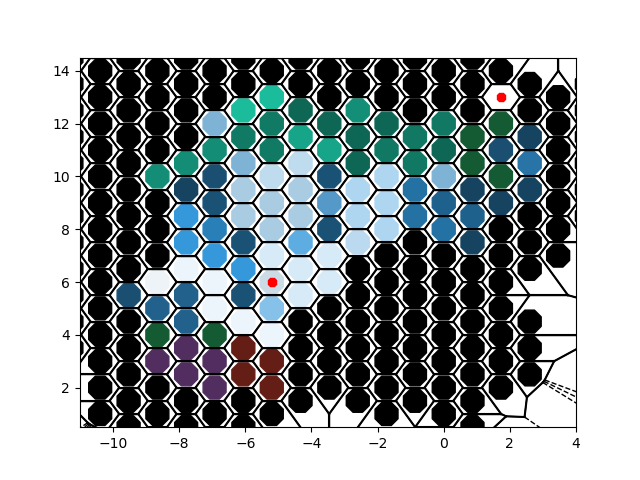
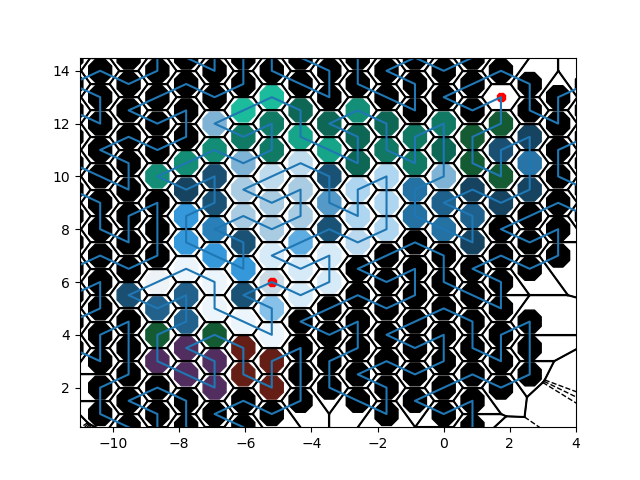
DONE 动态图，构建实验环境，不适用FCN方式录入 DONE 规则 DONE 边界 DONE 轨迹存入csv中 DONE 移动步骤 TODO FCN CNN 识别录入数据

diff --git a/envir/GridMapEnv.py b/envir/GridMapEnv.py
@@ -12,6 +12,20 @@ import copy
 import math
 
 
+# 点class
+class Points:
+    def __init__(self, x=0.0, y=0.0, style='8', color='#ffffff', ele="@", LOD="0"):
+        self.x = x
+        self.y = y
+        self.s = style
+        self.c = color
+        self.element = ele
+        self.LOD = LOD
+
+    def __repr__(self):
+        return f'Point({self.x!r}, {self.y!r}, {self.s!r}, {self.c!r}, {self.element!r},{self.LOD!r})'
+
+
 class MathTools:
     def __init__(self):
         r = 30 / 180.0 * math.pi
@@ -35,6 +49,7 @@ class GridMapEnv:
         self.figure = plt.figure()
         self.trace = []
         self.mathTools = MathTools()
+        # 轨迹
         self.trace_x = []
         self.trace_y = []
         # 图片保存
@@ -45,6 +60,7 @@ class GridMapEnv:
         # 惩罚
         self.punish = punish
         self.data = {}
+        #
 
     # read data from csv
     def readData(self):
@@ -90,7 +106,7 @@ class GridMapEnv:
     # draw line and points
     def drawGridMap(self, x, y, color):
         plt.scatter(x, y, color=color, s=320, marker='8')
-        # plt.plot(x, y)
+        plt.plot(x, y)
         # plt.axis([-18, 8, -2, 22])
         plt.axis([-11, 4, 0.5, 14.5])
         # plt.xlim([-9,0]), plt.ylim([3,12])
@@ -164,61 +180,79 @@ class GridMapEnv:
             return act(point, step)
 
     def toUP(self, point, step):
+        point = self.getPointInfo(point)
         tp = TracePart({}, {})
         tp.start_point = copy.copy(point)
         point.y += round(1 * step, 2)
+        point = self.getPointInfo(point)
         tp.end_point = copy.copy(point)
         self.trace.append(tp)
         self.acrossSide(point)
+        self.againstRules(tp)
         return point
 
     def toDOWN(self, point, step):
+        point = self.getPointInfo(point)
         tp = TracePart({}, {})
         tp.start_point = copy.copy(point)
         point.y -= round(1 * step, 2)
+        point = self.getPointInfo(point)
         tp.end_point = copy.copy(point)
         self.trace.append(tp)
         self.acrossSide(point)
+        self.againstRules(tp)
         return point
 
     def toLEFTUP(self, point, step):
+        point = self.getPointInfo(point)
         tp = TracePart({}, {})
         tp.start_point = copy.copy(point)
         point.y += round(self.mathTools.sin * step, 2)
         point.x -= round(self.mathTools.cos * step, 2)
+        point = self.getPointInfo(point)
         tp.end_point = copy.copy(point)
         self.trace.append(tp)
         self.acrossSide(point)
+        self.againstRules(tp)
         return point
 
     def toRIGHTDOWN(self, point, step):
+        point = self.getPointInfo(point)
         tp = TracePart({}, {})
         tp.start_point = copy.copy(point)
         point.y -= round(self.mathTools.sin * step, 2)
         point.x += round(self.mathTools.cos * step, 2)
+        point = self.getPointInfo(point)
         tp.end_point = copy.copy(point)
         self.trace.append(tp)
         self.acrossSide(point)
+        self.againstRules(tp)
         return point
 
     def toLEFTDOWN(self, point, step):
+        point = self.getPointInfo(point)
         tp = TracePart({}, {})
         tp.start_point = copy.copy(point)
         point.y -= round(self.mathTools.sin * step, 2)
         point.x -= round(self.mathTools.cos * step, 2)
+        point = self.getPointInfo(point)
         tp.end_point = copy.copy(point)
         self.trace.append(tp)
         self.acrossSide(point)
+        self.againstRules(tp)
         return point
 
     def toRIGHTUP(self, point, step):
+        point = self.getPointInfo(point)
         tp = TracePart({}, {})
         tp.start_point = copy.copy(point)
         point.y += round(self.mathTools.sin * step, 2)
         point.x += round(self.mathTools.cos * step, 2)
+        point = self.getPointInfo(point)
         tp.end_point = copy.copy(point)
         self.trace.append(tp)
         self.acrossSide(point)
+        self.againstRules(tp)
         return point
 
     # DONE save trace
@@ -236,7 +270,7 @@ class GridMapEnv:
                 writer.writerows([[round(i.start_point.x, 2), round(i.start_point.y, 2), round(i.end_point.x, 2),
                                    round(i.end_point.y, 2)]])
 
-    # TODO show trace
+    # DONE show trace
     def showTrace(self):
         # clear data
         self.trace_x = []
@@ -264,33 +298,84 @@ class GridMapEnv:
         # plt.clf()
         # plt.show()
 
-    # TODO 试图越过边界
+    # DONE 试图越过边界 TODO 优化函数
     def acrossSide(self, point):
-        useful_data_0 = self.data[
-            (self.data['x'] == point.x) & (self.data['y'] == point.y) & (self.data['LOD'] != '-1')].empty
-        useful_data_1 = self.data[((self.data['x'] - 0.01) == (round((point.x), 2))) & (self.data['y'] == point.y) & (
-                self.data['LOD'] != '-1')].empty
-        useful_data_2 = self.data[((self.data['x'] + 0.01) == (round((point.x), 2))) & (self.data['y'] == point.y) & (
-                self.data['LOD'] != '-1')].empty
-
-        if (point.x >= self.border_x[0] and point.x < self.border_x[1] and point.y >= self.border_y[0] and point.y <
+        now_point = self.getPointInfo(point)
+        if (now_point.x >= self.border_x[0] and now_point.x < self.border_x[1] and now_point.y >= self.border_y[
+            0] and now_point.y <
                 self.border_y[1]):
-            if useful_data_0 and useful_data_1 and useful_data_2:
+            if now_point.LOD == '-1':
                 '''
                     无效数据，惩罚
                 '''
-                print(point)
-                print("惩罚")
+                print("边界惩罚")
                 return True
             else:
                 return False
-            return True
         else:
+            '''
+                无效数据，惩罚
+            '''
+            print("边界惩罚")
             return False
 
-    # TODO 试图违法规则
-    def againstRules(self):
+    # DONE 试图违法规则
+    def againstRules(self, tp):
+        s = tp.start_point.LOD.split(':')
+        e = tp.end_point.LOD.split(':')
+        # isLoger 判断层级
+        isLoger = True if len(e) >= len(s) else False
+        # 层数设置
+        # LOD,相差为0即为同级，比较上一级
+        LOD_l = abs(len(s) - len(e))
+        # 非同级
+        if LOD_l < 3 and LOD_l > 0:
+            if isLoger:
+                if e[:-LOD_l] == s:
+                    print("奖励")
+                    return
+                else:
+                    print("非父子惩罚")
+                    return
+            else:
+                if s[:-LOD_l] == e:
+                    print("奖励")
+                    return
+                else:
+                    print("非父子惩罚")
+                    return
+        # 同级
+        if LOD_l == 0:
+            if e[:-1] == s[:-1]:
+                print("奖励")
+                return
+            else:
+                print("非同脉惩罚")
+                return
+        # 越级惩罚
+        else:
+            print("越级惩罚")
+            return
 
-        return
+    # Done 根据坐标获取元素信息
+    def getPointInfo(self, point):
+        useful_data_0 = self.data[
+            (self.data['x'] == point.x) & (self.data['y'] == point.y)]
+        useful_data_1 = self.data[((self.data['x'] - 0.01) == (round((point.x), 2))) & (self.data['y'] == point.y)]
+        useful_data_2 = self.data[((self.data['x'] + 0.01) == (round((point.x), 2))) & (self.data['y'] == point.y)]
+        # print(useful_data_0, useful_data_1, useful_data_2)
 
-    # TODO 是否
+        if not useful_data_0.empty:
+            return Points(useful_data_0['x'].values[0], useful_data_0['y'].values[0], '',
+                          useful_data_0['color'].values[0], useful_data_0['element'].values[0],
+                          useful_data_0['LOD'].values[0])
+        if not useful_data_1.empty:
+            return Points(useful_data_1['x'].values[0], useful_data_1['y'].values[0], '',
+                          useful_data_1['color'].values[0], useful_data_1['element'].values[0],
+                          useful_data_1['LOD'].values[0])
+        if not useful_data_2.empty:
+            return Points(useful_data_2['x'].values[0], useful_data_2['y'].values[0], '',
+                          useful_data_2['color'].values[0], useful_data_2['element'].values[0],
+                          useful_data_2['LOD'].values[0])
+        else:
+            return {}

diff --git a/main.py b/main.py
@@ -1,18 +1,6 @@
 import time
 
-from envir.GridMapEnv import GridMapEnv
-
-
-class Point:
-    def __init__(self, x, y, style, color):
-        self.x = x
-        self.y = y
-        self.s = style
-        self.c = color
-
-    def __repr__(self):
-        return f'Point({self.x!r}, {self.y!r}, {self.s!r}, {self.c!r})'
-
+from envir.GridMapEnv import GridMapEnv, Points
 
 if __name__ == '__main__':
     # 设置边界
@@ -21,8 +9,8 @@ if __name__ == '__main__':
     # 惩罚
     punish = []
 
-    born = Point(1.73, 13, '8', 'r')
-    dest = Point(-5.20, 6.00, '8', 'r')
+    born = Points(1.73, 13, '8', 'r')
+    dest = Points(-5.20, 6.00, '8', 'r')
     gridMap = GridMapEnv('./envir/gosper.csv',border_x,border_y,punish)
     (data, points) = gridMap.readData()
     gridMap.createVoronoi(points)
@@ -33,60 +21,63 @@ if __name__ == '__main__':
     gridMap.saveTrace()
     gridMap.showTrace()
     gridMap.show()
+
     point = gridMap.action(point, 100, 1)
     gridMap.saveTrace()
     gridMap.showTrace()
     gridMap.show()
+
     point = gridMap.action(point, 0, 1)
     gridMap.saveTrace()
     gridMap.showTrace()
     gridMap.show()
+
     point = gridMap.action(point, 1, 1)
     gridMap.saveTrace()
     gridMap.showTrace()
     gridMap.show()
-    point = gridMap.action(point, 10, 1)
-    gridMap.saveTrace()
-    gridMap.showTrace()
-    gridMap.show()
+
     point = gridMap.action(point, 11, 1)
     gridMap.saveTrace()
     gridMap.showTrace()
     gridMap.show()
-    point = gridMap.action(born, 0, 1)
+
+    point = gridMap.action(point, 10, 1)
     gridMap.saveTrace()
     gridMap.showTrace()
     gridMap.show()
+
+    point = gridMap.action(point, 0, 1)
+    gridMap.saveTrace()
+    gridMap.showTrace()
+    gridMap.show()
+
     point = gridMap.action(point, 100, 1)
     gridMap.saveTrace()
     gridMap.showTrace()
     gridMap.show()
+
     point = gridMap.action(point, 110, 1)
     gridMap.saveTrace()
     gridMap.showTrace()
     gridMap.show()
+
+    point = gridMap.action(point, 0, 1)
+    gridMap.saveTrace()
+    gridMap.showTrace()
+    gridMap.show()
+
     point = gridMap.action(point, 100, 1)
     gridMap.saveTrace()
     gridMap.showTrace()
     gridMap.show()
-    point = gridMap.action(point, 100, 1)
 
+    point = gridMap.action(point, 0, 1)
     gridMap.saveTrace()
     gridMap.showTrace()
     gridMap.show()
 
-    point = gridMap.action(born, 0, 1)
-
-    gridMap.saveTrace()
-    gridMap.showTrace()
-    gridMap.show()
-    point = gridMap.action(born, 0, 1)
-
-    gridMap.saveTrace()
-    gridMap.showTrace()
-    gridMap.show()
-    point = gridMap.action(born, 0, 1)
-
+    point = gridMap.action(point, 0, 1)
     gridMap.saveTrace()
     gridMap.showTrace()
     gridMap.show()
